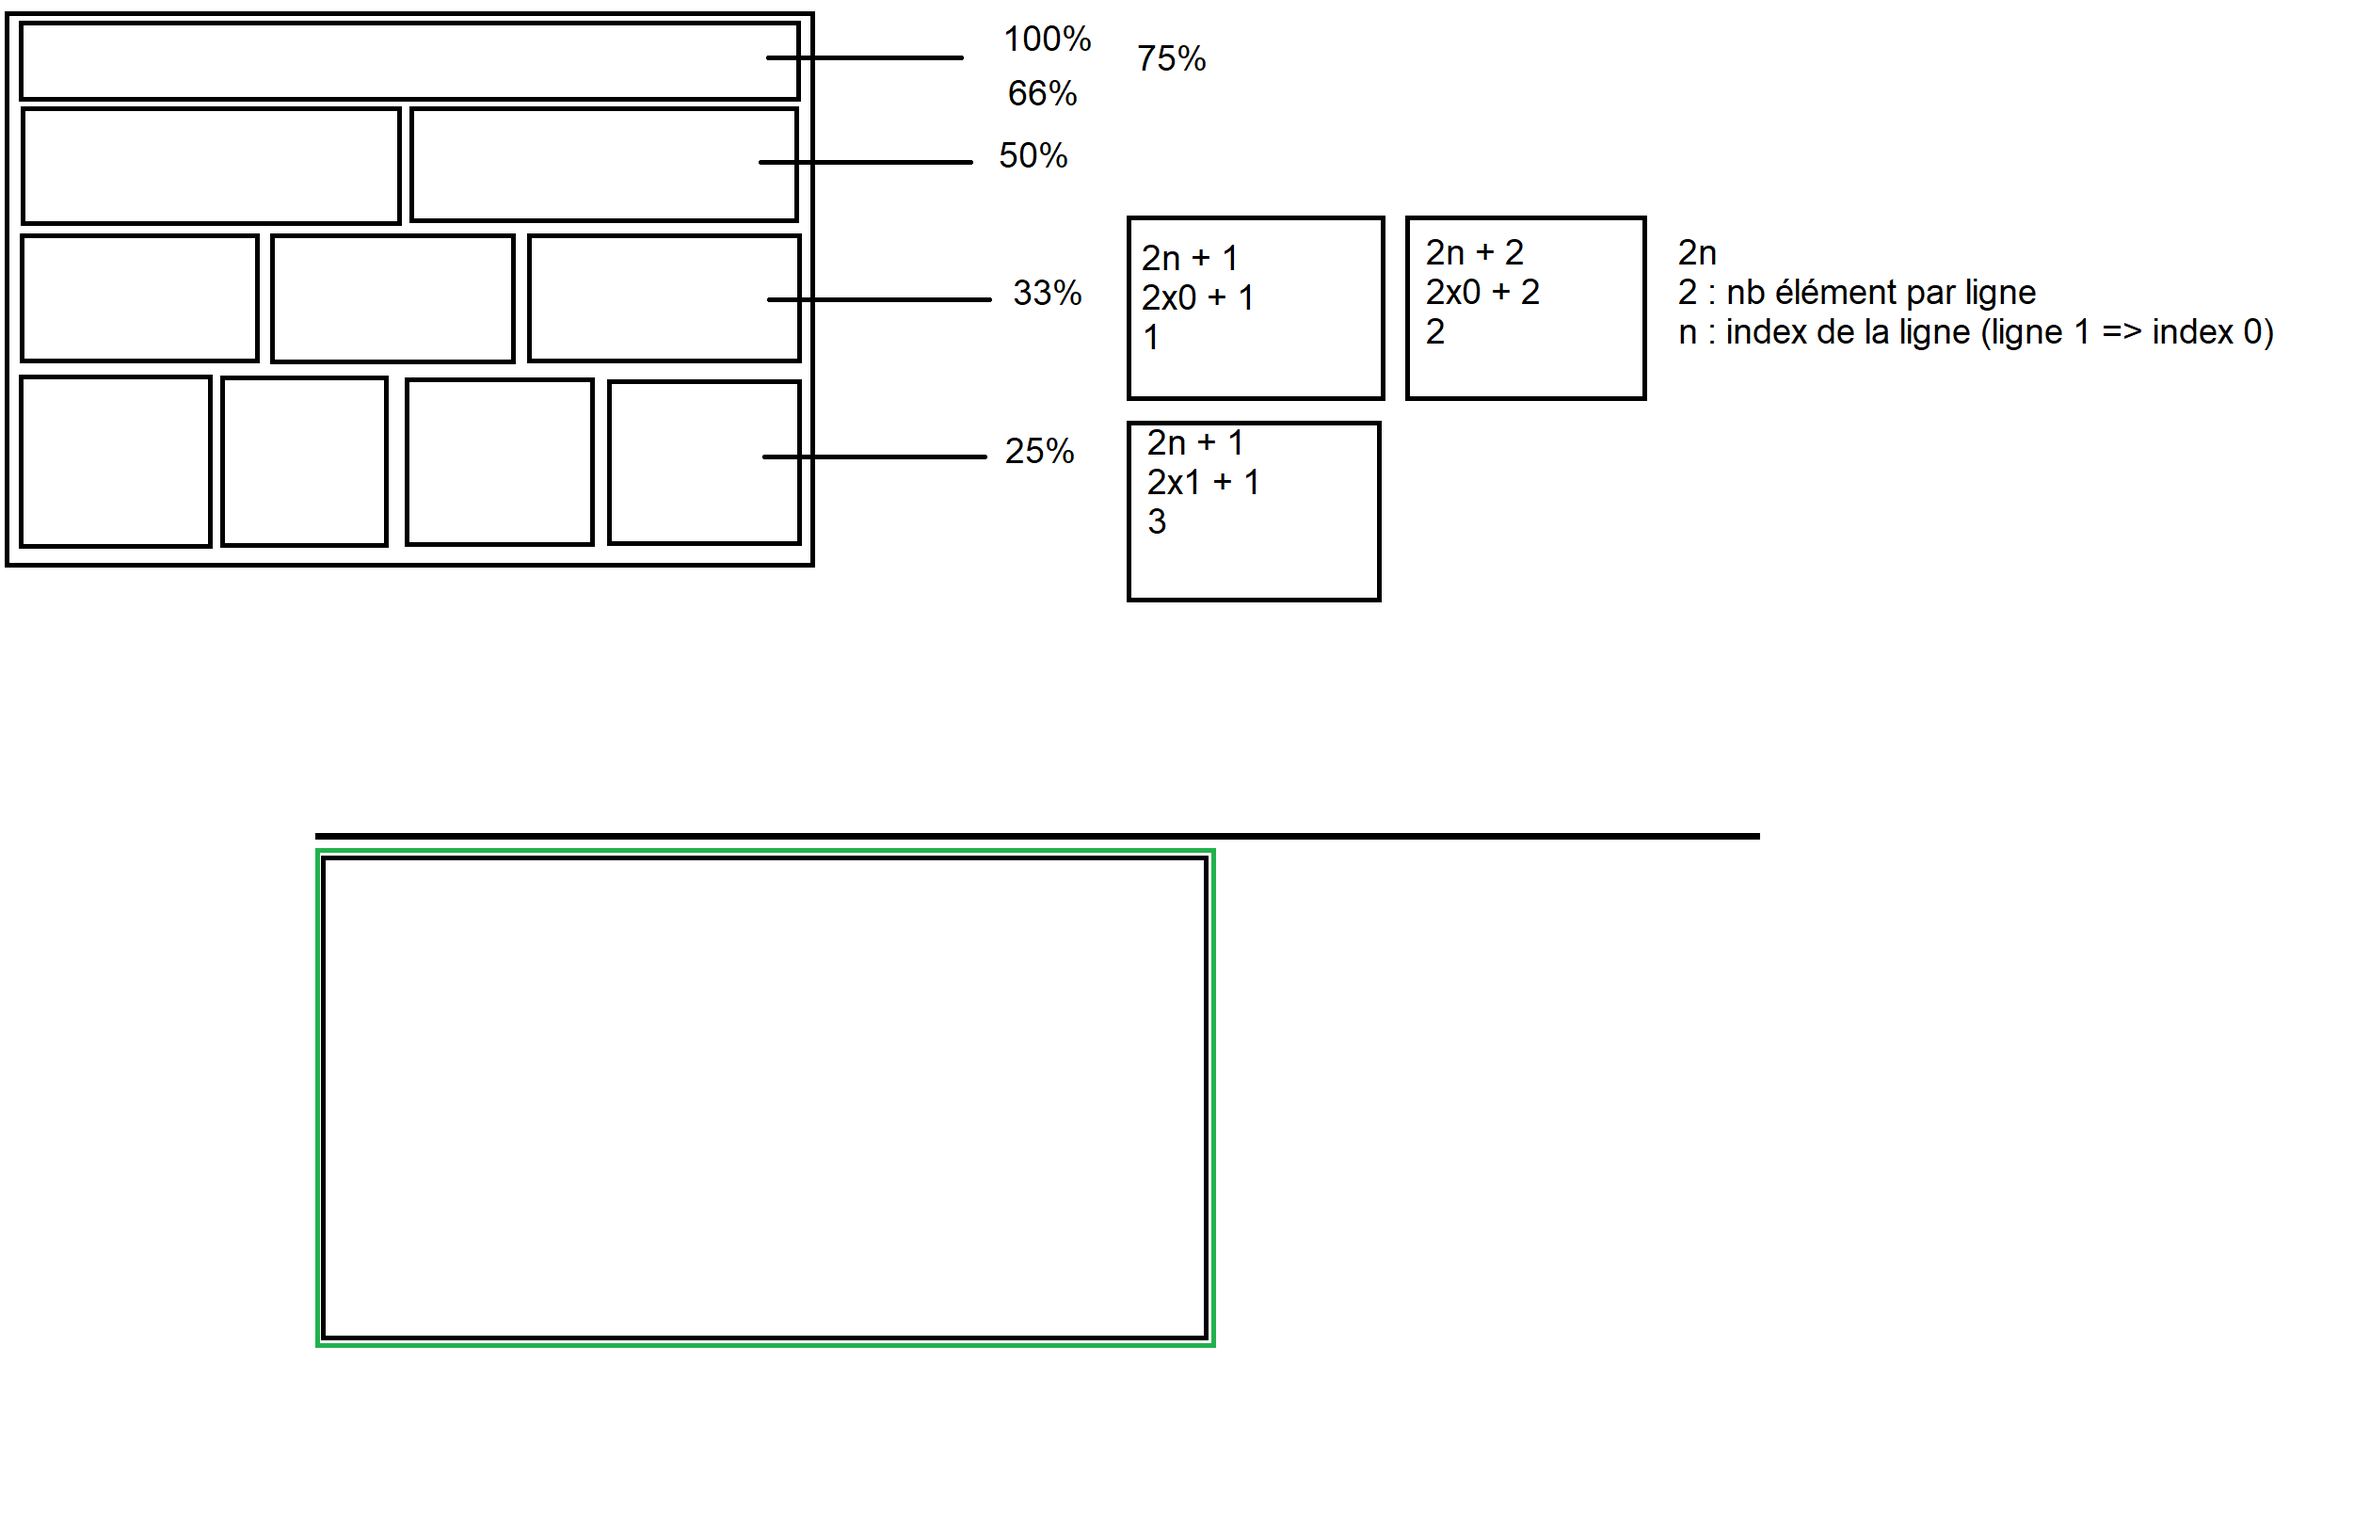
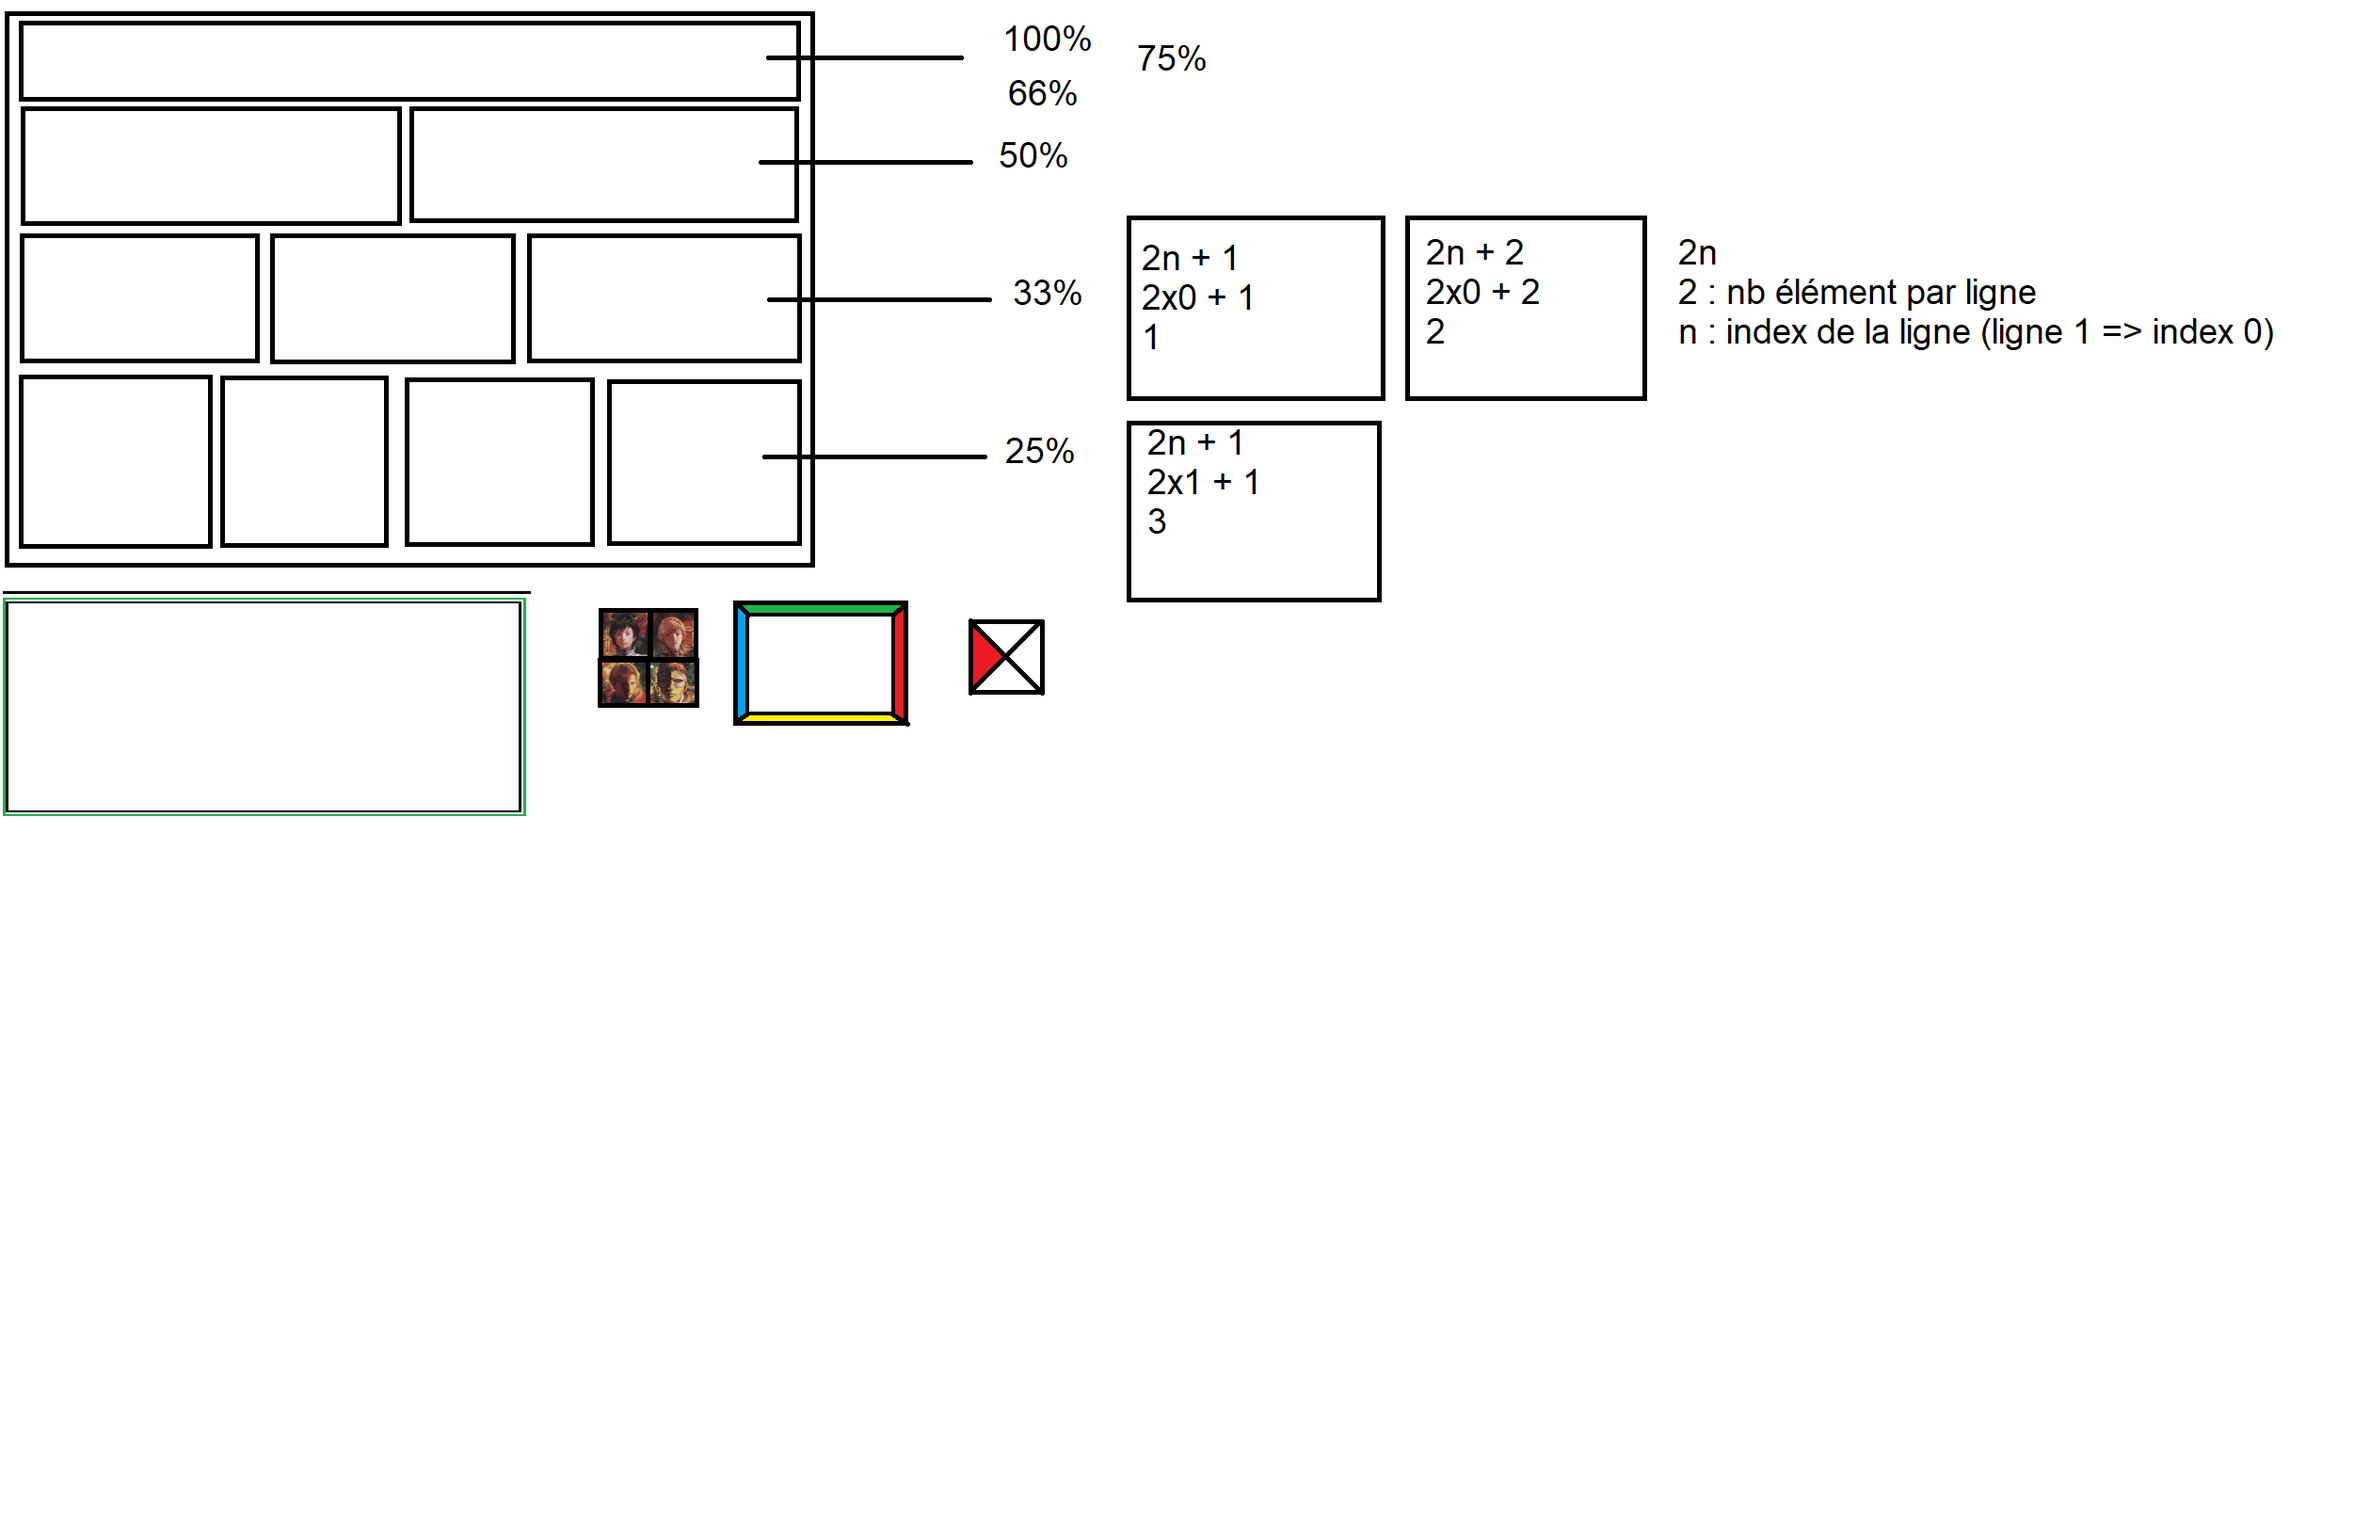
HTML - CSS pt17 - trucs CSS - ombres et superpositions

diff --git a/css/trucs.css b/css/trucs.css
@@ -11,3 +11,120 @@
     border-style: solid;
     border-color: cadetblue;
 }
+
+.vignette{
+    width: 52px;
+    height: 52px;
+    border: 1px solid black;
+    background-image: url('../images/multi-vignettes-sm-01.png');
+    margin: 0.5rem;
+}
+
+.vignette-01{
+    background-position-x: 0;
+    background-position-y: 0;
+}
+.vignette-02{
+    background-position-x: 50px;
+    background-position-y: 0;
+}
+.vignette-03{
+    background-position-x: 0;
+    background-position-y: 50px;
+}
+.vignette-04{
+    background-position-x: 50px;
+    background-position-y: 50px;
+}
+
+.triangle-rouge{
+    width: 0;
+    height: 0;
+    --taille-base: 50px;
+    border-color: transparent;
+    border-style: solid;
+    border-left-width: calc( var(--taille-base) * 0.866 );
+    border-top-width:  calc( var(--taille-base) / 2 );
+    border-bottom-width:  calc( var(--taille-base) / 2 );
+    border-left-color: darkred;
+}
+
+p.p-t::before{
+    content: "";
+    display: inline-block;
+    width: 0;
+    height: 0;
+    --taille-base: 1rem;
+    border-color: transparent;
+    border-style: solid;
+    border-left-width: calc( var(--taille-base) * 0.866 );
+    border-top-width:  calc( var(--taille-base) / 2 );
+    border-bottom-width:  calc( var(--taille-base) / 2 );
+    border-left-color: darkred;
+}
+
+.text-box-shadow{
+    width: 200px;
+    height: 200px;
+    background-color: black;
+    margin: 2rem;
+    box-shadow: 0 0 0 10px darkred, 0 0 0 20px darkblue, inset 0 0 0 10px darkgreen, inset 0 0 0 20px darkmagenta;
+    border: 10px solid gold;
+}
+
+.atari{
+    width: 200px;
+    height: 200px;
+    background-color: black;
+    color: white;
+    text-transform: uppercase;
+    margin: 2rem;
+    padding-left: 25px;
+    padding-top: 100px;
+    box-shadow: -10px 0 0 gold, -20px 0 0 darkred, -30px 0 0 orange;
+    border-left: 10px solid darkgreen;
+    border-top-left-radius: 50px;
+}
+
+.badge{
+    position: relative;
+    width: 338px;
+    height: 338px;
+    background-color: darkred;
+    border-radius: 50%;
+}
+
+.text-fg{
+    position: absolute;
+    z-index: 4;
+    top: 45%;
+    left: 20%;
+}
+
+.img-fg{
+    position: absolute;
+    z-index: 3;
+    width: 338px;
+    height: 338px;
+    background: url('../images/pip-boy-boy.png') no-repeat center center;
+    background-size: contain;
+    border-radius: 50%;
+}
+
+.img-mg{
+    z-index: 2;
+    position: absolute;
+    width: 338px;
+    height: 338px;
+    background: url('../images/superposition/logo-pt2.png');
+    border-radius: 50%;
+}
+
+.img-bg{
+    position: absolute;
+    z-index: 1;
+    width: 338px;
+    height: 338px;
+    background: url('../images/superposition/logo-pt1.png');
+    border-radius: 50%;
+}

diff --git a/trucs.html b/trucs.html
@@ -51,7 +51,42 @@
                     </svg>
                     <h3>Jouer avec le background</h3>
                     <div class="cercle">
-                        
+
+                    </div>
+                    <h3>Le système de "sprite"</h3>
+                    <div class="vignette vignette-01"></div>
+                    <div class="vignette vignette-02"></div>
+                    <div class="vignette vignette-03"></div>
+                    <div class="vignette vignette-04"></div>
+                    <h3>Le triangle CSS</h3>
+                    <div class="triangle-rouge">
+
+                    </div>
+                    <p class="p-t">
+                        Lorem ipsum dolor sit amet consectetur adipisicing elit. Rem eligendi ullam nobis ea consequuntur nisi sequi voluptatum inventore repellat corporis laboriosam provident excepturi culpa ipsam quisquam, accusantium autem alias ipsum!
+                    </p>
+                    <h3>Jouer avec les ombres des élément - du texte</h3>
+                    <div style="width: 200px; height: 100px; color: white; font-size: 5rem;text-shadow: 0 0 5px black;padding-top: 2rem;">
+                        Coucou
+                    </div>
+                    <div style="width: 200px; height: 100px; color: white; font-size: 5rem;text-shadow: 3px 3px 8px black;padding-top: 2rem;">
+                        Coucou
+                    </div>
+                    <div class="text-box-shadow" style="color: white;">
+                        <p>
+                            Lorem, ipsum dolor sit amet consectetur adipisicing 
+                        </p>
+                    </div>
+                    <div class="atari">
+                        atari
+                    </div>
+                    <div class="badge">
+                        <div class="text-fg">
+                            <h2>Cool le badge</h2>
+                        </div>
+                        <div class="img-fg"></div>
+                        <div class="img-mg"></div>
+                        <div class="img-bg"></div>
                     </div>
                 </main>
             </article>
